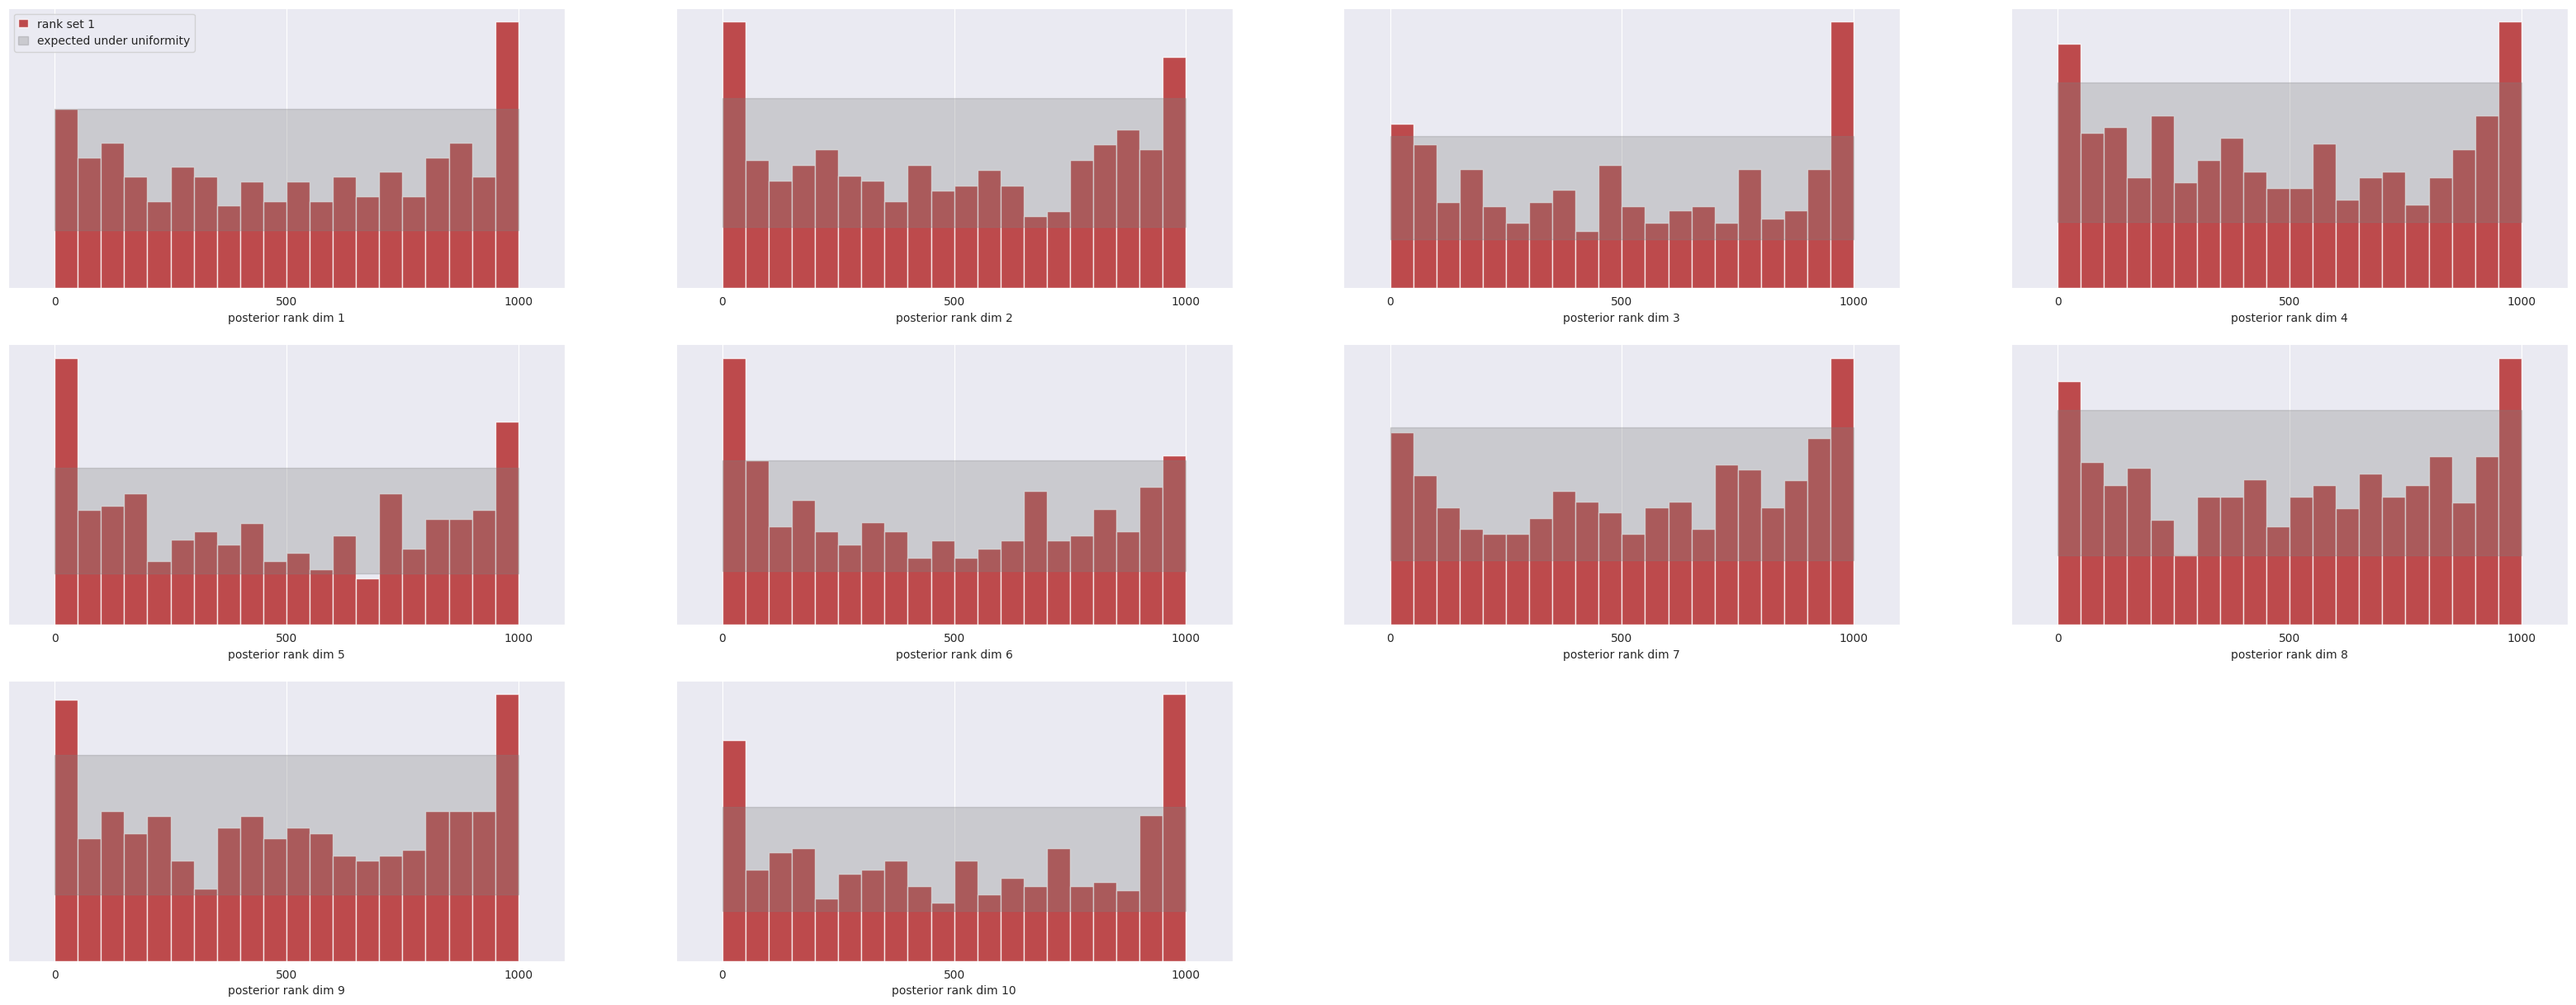
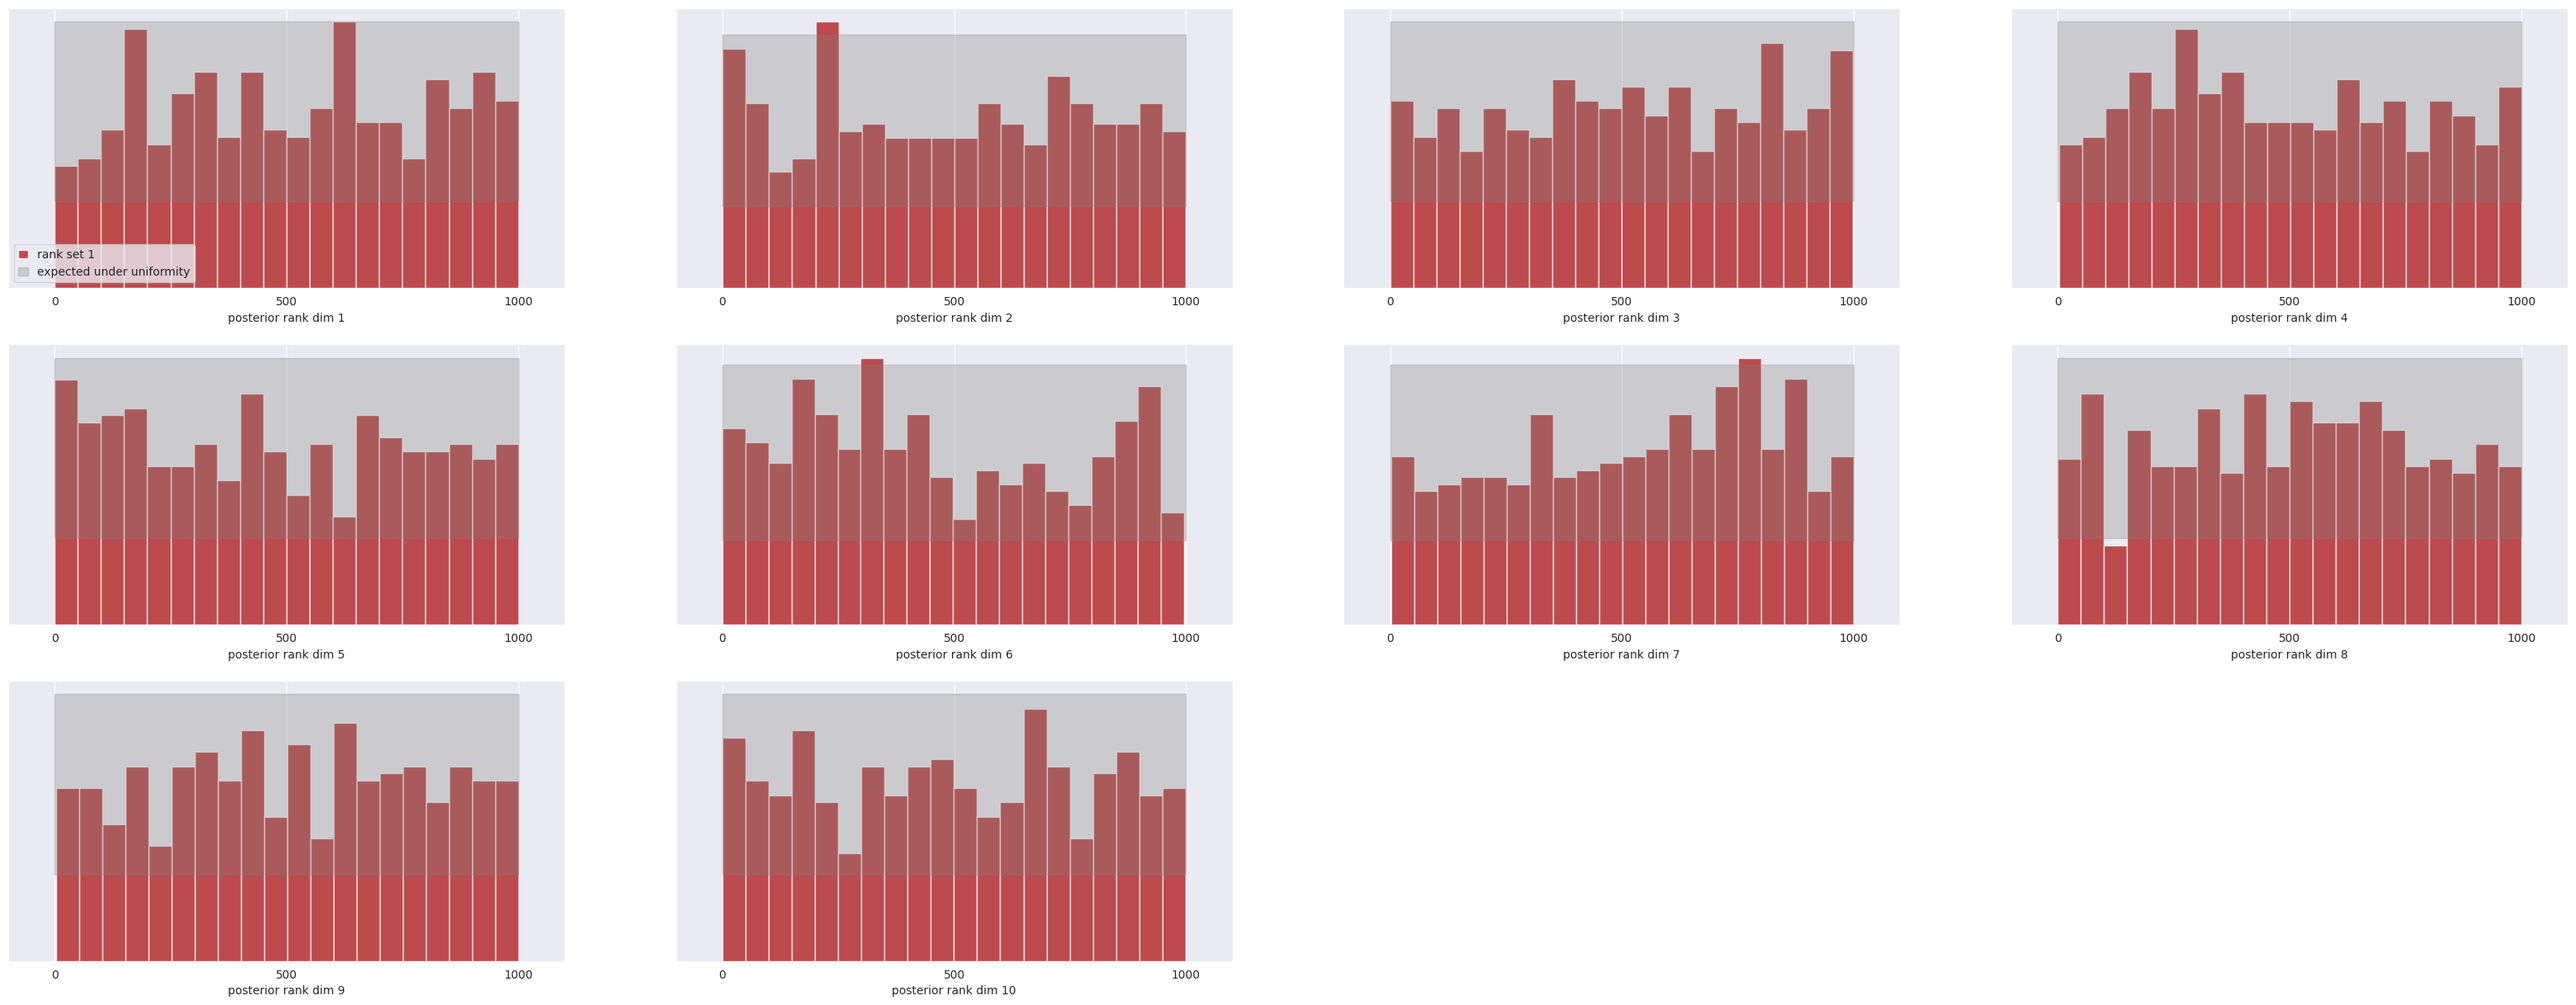
up

diff --git a/examples/sbi-benchmarks/gaussian_linear/flow_flux/README.md b/examples/sbi-benchmarks/gaussian_linear/flow_flux/README.md
@@ -23,12 +23,12 @@ This document provides a summary of the `flux` model trained on the `gaussian_li
 | `vec_in_dim` | `None` |
 | `context_in_dim` | `1` |
 | `mlp_ratio` | `4` |
-| `num_heads` | `6` |
-| `depth` | `8` |
-| `depth_single_blocks` | `16` |
+| `num_heads` | `4` |
+| `depth` | `4` |
+| `depth_single_blocks` | `8` |
 | `axes_dim` | `[10]` |
 | `qkv_bias` | `True` |
-| `theta` | `40` |
+| `theta` | `-1` |
 | `params_dtype` | `bfloat16` |
 | `id_embedding_strategy` | `['absolute', 'absolute']` |
 
@@ -36,26 +36,26 @@ This document provides a summary of the `flux` model trained on the `gaussian_li
 
 | Parameter | Value |
 |---|---|
-| `batch_size` | `4096` |
-| `nsteps` | `50000` |
+| `batch_size` | `256` |
+| `nsteps` | `10000` |
 | `ema_decay` | `0.999` |
 | `multistep` | `1` |
-| `early_stopping` | `True` |
+| `early_stopping` | `False` |
 | `val_every` | `100` |
 | `experiment_id` | `1` |
 | `restore_model` | `False` |
 | `train_model` | `True` |
 | `warmup_steps` | `500` |
-| `decay_transition` | `0.6` |
+| `decay_transition` | `0.8` |
 | `rtol` | `0.0001` |
-| `max_lr` | `0.0004` |
-| `min_lr` | `4e-06` |
+| `max_lr` | `0.0001` |
+| `min_lr` | `1e-06` |
 
 ## 5. Evaluation
 
 The model's performance is evaluated using the Classifier 2-Sample Test (C2ST). An accuracy score close to 0.5 indicates that the generated samples are highly similar to the true data distribution.
 
-- **Average C2ST Accuracy:** 0.780 ± 0.130
+- **Average C2ST Accuracy:** 0.507 ± 0.008
 
 ---
 *This model card was automatically generated.*
